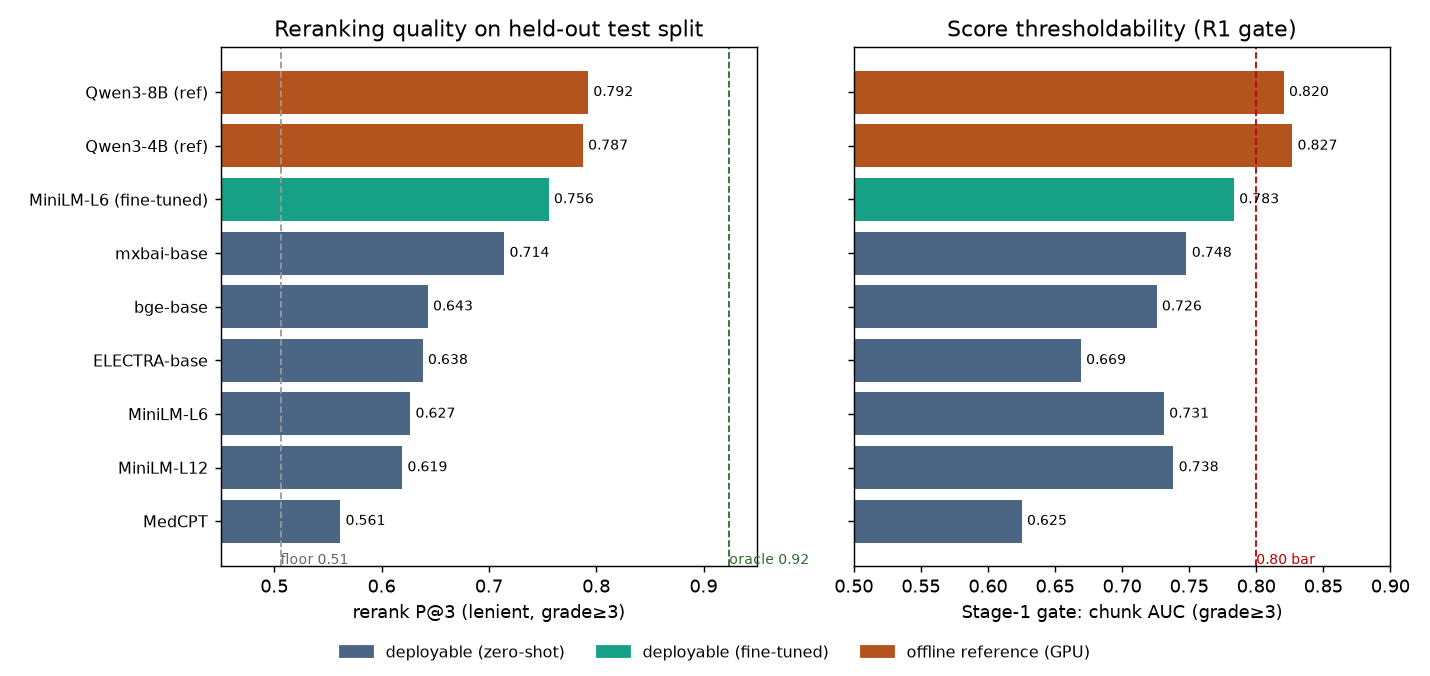
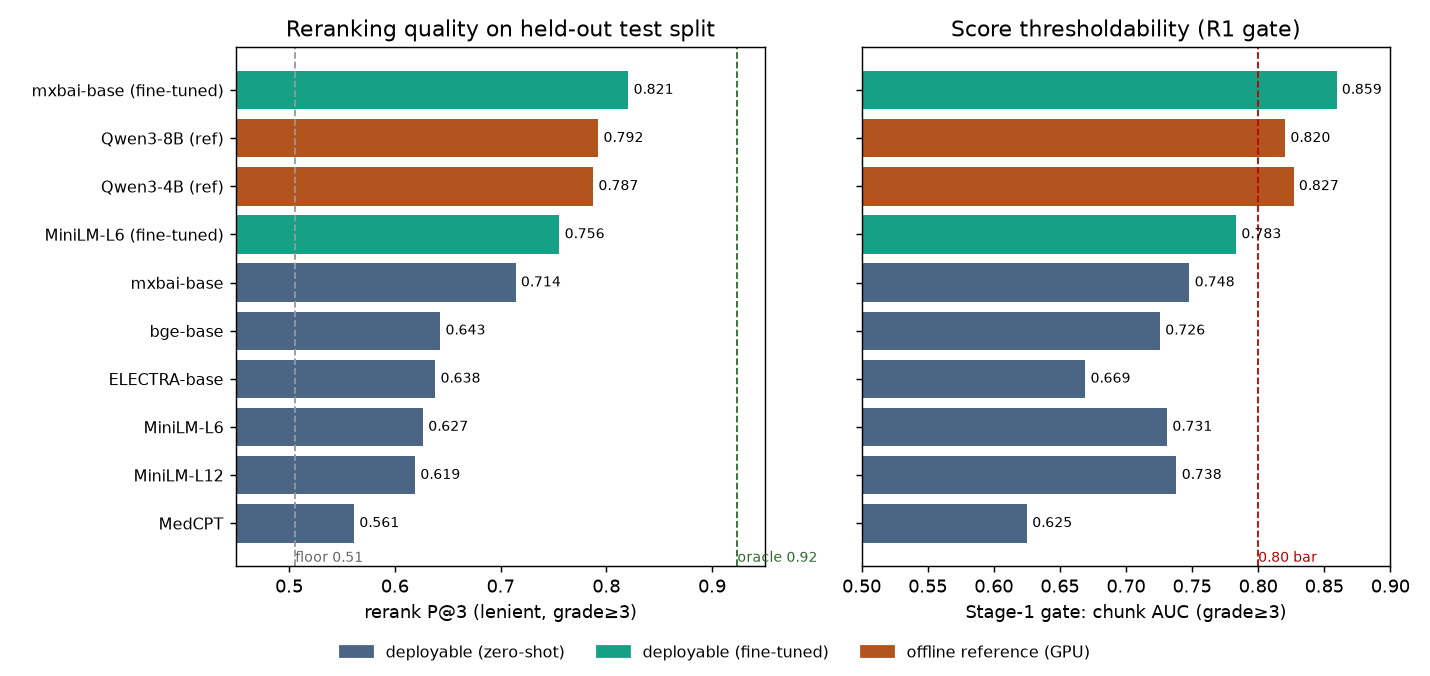
results(r2c): add mxbai-base fine-tune — crosses R1's 0.80 AUC bar (0.859), reranking revives threshold
Fine-tuned mxbai-base (184M): P@3 0.821, AUC3 0.859 > Qwen3-8B ref. Deployable
default stays fine-tuned MiniLM-L6; mxbai-ft is the size-upgrade ceiling.

diff --git a/configs/config-v0.2.0/reports/r2c-rerank/r2c-reranker-results-20260613.html b/configs/config-v0.2.0/reports/r2c-rerank/r2c-reranker-results-20260613.html
@@ -102,26 +102,34 @@ DEV-selected, held-out TEST evaluated — no test query ever seen), then re-scor
 the same test pool. Training took 149 s on one H200.</p>
 
 <table>
-  <tr><th>metric</th><th class="num">zero-shot</th><th class="num">fine-tuned</th><th class="num">Δ</th><th class="num">Qwen3-8B ref</th></tr>
-  <tr><td>P@3 lenient (grade≥3)</td><td class="num">0.627</td><td class="num">0.756</td><td class="num">+0.129</td><td class="num">0.792</td></tr>
-  <tr><td>P@3 strict (grade≥5)</td><td class="num">0.276</td><td class="num">0.380</td><td class="num">+0.104</td><td class="num">0.369</td></tr>
-  <tr><td>HR@3 (any relevant in top-3)</td><td class="num">0.918</td><td class="num">0.959</td><td class="num">+0.041</td><td class="num">0.984</td></tr>
-  <tr><td>chunk AUC grade≥3 (thresholdability)</td><td class="num">0.731</td><td class="num">0.783</td><td class="num">+0.052</td><td class="num">0.820</td></tr>
-  <tr><td>chunk AUC grade≥5</td><td class="num">0.647</td><td class="num">0.757</td><td class="num">+0.110</td><td class="num">—</td></tr>
+  <tr><th>model</th><th class="num">params</th><th class="num">P@3 len</th><th class="num">P@3 strict</th>
+      <th class="num">HR@3</th><th class="num">AUC ≥3</th><th class="num">AUC ≥5</th></tr>
+  <tr><td>MiniLM-L6 zero-shot</td><td class="num">23M</td><td class="num">0.627</td><td class="num">0.276</td><td class="num">0.918</td><td class="num">0.731</td><td class="num">0.647</td></tr>
+  <tr class="win"><td>MiniLM-L6 <strong>fine-tuned</strong> (deployable)</td><td class="num">23M</td><td class="num">0.756</td><td class="num">0.380</td><td class="num">0.959</td><td class="num">0.783</td><td class="num">0.757</td></tr>
+  <tr><td>mxbai-base zero-shot</td><td class="num">184M</td><td class="num">0.714</td><td class="num">0.312</td><td class="num">0.963</td><td class="num">0.748</td><td class="num">0.667</td></tr>
+  <tr><td>mxbai-base <strong>fine-tuned</strong> (size upgrade)</td><td class="num">184M</td><td class="num">0.821</td><td class="num">0.420</td><td class="num">0.978</td><td class="num ok">0.859</td><td class="num ok">0.857</td></tr>
+  <tr><td>Qwen3-8B (offline ref)</td><td class="num">8B</td><td class="num">0.792</td><td class="num">0.369</td><td class="num">0.984</td><td class="num">0.820</td><td class="num">—</td></tr>
 </table>
 
-<p>The fine-tuned 23 M model <strong>beats zero-shot mxbai-base (0.714) at one-eighth
-the size</strong>, and on the strict cut actually <em>exceeds</em> the Qwen3-8B
-reference (0.380 vs 0.369). Its score AUC moves decisively toward the 0.80 bar R1
-set for a usable absolute threshold — the strongest case yet that a thresholdable
-on-device relevance signal is within reach (a dedicated threshold re-test on the
-fine-tuned score is the natural R1 follow-up).</p>
+<p>Two findings:</p>
+<ul>
+  <li><strong>Fine-tuning is the lever, not size.</strong> The fine-tuned 23 M
+  MiniLM-L6 beats zero-shot mxbai-base (0.714) at one-eighth the size and, on the
+  strict cut, exceeds the Qwen3-8B reference (0.380 vs 0.369).</li>
+  <li><strong>R1's threshold is revived.</strong> Fine-tuned mxbai-base
+  <em>crosses the 0.80 chunk-AUC bar</em> (0.859 ≥3, 0.857 ≥5) — and tops even the
+  Qwen3-8B reference (0.792). For the first time a reranker's score is
+  thresholdable by R1's own criterion, so the abstention/threshold idea R1 shelved
+  for cosine is worth re-testing on a fine-tuned reranker score.</li>
+</ul>
 
-<div class="note"><strong>Why not deploy mxbai-base?</strong> It is the best
-<em>zero-shot</em> model, but it is 8× the parameters/latency of MiniLM-L6 and the
-fine-tuned MiniLM-L6 already surpasses it. (We also fine-tuned mxbai-base for
-completeness; it is not on the deployment path.) The deployable choice optimizes
-quality-per-byte, and the fine-tuned tiny model wins outright.</div>
+<div class="note"><strong>Deployment choice = fine-tuned MiniLM-L6.</strong> It is
+the best quality-per-byte (24 MB int8, 13 ms/pair, proven on the device) and
+already beats every zero-shot model. Fine-tuned mxbai-base is the
+<em>quality-ceiling upgrade</em> (≈8× the size/latency, ~2 s for a 20-chunk
+bundle) for if/when the threshold-revival or the extra ~0.065 P@3 justifies the
+footprint — it is not the default. The end-to-end value gate below uses the
+deployable fine-tuned MiniLM-L6.</div>
 
 <h2>P0 — does the deployed reranker reproduce the validated quality?</h2>
 <p>The in-app reranker is the int8 <code>.tflite</code> driven by a hand-ported
